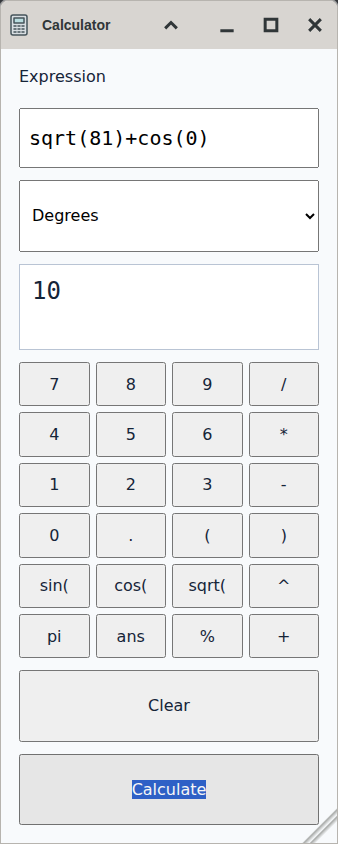
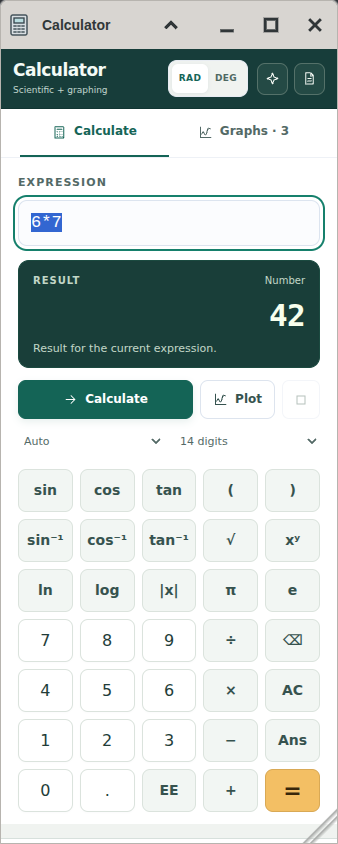
Verify the graphing Calculator in guest and account Files on production

diff --git a/reviews/live-apps/FIX-QUEUE.md b/reviews/live-apps/FIX-QUEUE.md
@@ -16,7 +16,7 @@ Linux X11 with Chromium, the remaining Craft work, and ACAD are the release prio
 |---|---|---|
 | Anon Files and WordCraft | Both previously stopped at “Opening…”. | Fixed on ksu.codes in `a1d99697be40`. The Files toolbar identifies guest storage as “This browser tab” in `fb68a0db0a3a`. A fresh guest edited a DOCX, saved, closed and reopened it through Files, then edited and saved again. Registration promoted identical bytes. Existing sign-in discarded another guest’s file. The guest made zero account-file gateway requests and the signed control contacted the gateway. [Screenshot](files/anon-wordcraft.png) · [Assembly](https://github.com/CC-David-CC/WebOS/commit/961b62af) |
 | Anon Craft editors | Nineteen editors rejected guest Files on the earlier deployment. | Fixed for all 20 on ksu.codes in `8d2b5476c7b1`. Each passed native editing, saving and reopening through Files in both roles. Compact layout, recording and independent engine findings remain listed under their own rows. [20 results and screenshots](anon-craft-files.md) |
-| Other Anon file workflows | From a fresh guest session, Calculator rejects launch. Image Editor, Python Notebook, G-code Viewer, Kiri:Moto, Mesh:Tool and several games open but reject a file picker. | Open. Of 58 other live launch entries, 57 opened. Retest each file operation with tab-local storage and a signed account, including reopening the saved revision in its native app. |
+| Other Anon file workflows | Calculator previously rejected guest launch. Separate native file checks are pending for other apps. | [Calculator passed in production](calculator/README.md) on `3bdb5bf26626` for guest, account promotion and fresh sign-in. Image Editor, Python Notebook, G-code Preview, Mesh:Tool, Digital Logic, Chess Study and Tabletop Bot Arena opened a guest file picker without private requests on `fdb8a0af8b45`. Their native save/reopen paths and the other pending workflows stay open. |
 | Anon Weather Maps | A new anonymous desktop should open over the United States. | Fixed on ksu.codes in `a1d99697be40`. Fresh desktop and phone-emulated sessions opened Weather Maps, the desktop rendered wind and US radar, the window stayed closed after dismissal, and a signed reload restored the account layout. [US globe](weather-maps/anon-us.png) · [Assembly](https://github.com/CC-David-CC/WebOS/commit/15f1308bd9f503adbcb6d26d0c4f153bbaa35f85) |
 | Desktop startup | A fresh visitor was sent to a full-page sign-in gate with a low-contrast Anon button. | Fixed on ksu.codes in release `4faf8fd04eff`. Fresh desktop and phone-emulated browser sessions started as Anon. Register, existing-account sign-in, automatic recovery of a remembered sign-in, and sign-out passed. A rejected password left the guest desktop available. Creating an account transferred an anonymous Terminal file. Signing in to that existing account from a second guest session kept the account file and discarded the second guest file. [Desktop source](https://github.com/CC-David-CC/desktop/commit/4d6456e6a3c5e4b1c2078a90dc2984f4a642f100) |
 | SoundCraft | Browser microphone recording and playback. | Hosted WebOS recorded a generated 440 Hz microphone, saved a native project and played the reopened take in Anon and a fresh signed-in browser. Physical microphone and listening check remains open. [Hosted review](soundcraft/README.md) |

diff --git a/reviews/live-apps/calculator/README.md b/reviews/live-apps/calculator/README.md
@@ -1,9 +1,14 @@
 # Calculator
 
-Entered 6 × 7 with the keypad and verified 42. Entered sqrt(81)+cos(0), selected degrees, pressed Calculate and verified 10. The window closed at every size. This covers the calculator currently served by the launcher.
+Choose **Apps → System Tools → Calculator**. The graphing calculator can save expressions, results and plotted functions together as a `.calc.json` session. Open the session from Files to continue editing.
 
-Passed in signed-in Chromium on ksu.codes at 390 × 844, 820 × 1180, 1920 × 1080 and 3840 × 2160 CSS pixels. The phone and tablet contexts emulated touch. Physical iPad, phone and Safari behavior remain unverified.
+| Live test | Result |
+|---|---|
+| Guest session | Evaluated `6*7`, plotted `x^2+37` and saved. Files reopened the graph. A second edit evaluated `12*12` and saved to the same file. There were zero private file requests. |
+| Create account | The new account retained the guest file. The signed-in user evaluated `13*13` and saved the updated session. |
+| Fresh sign-in | A new browser profile opened the account file through Files and restored its three graph traces. Its 1,618 bytes matched the saved SHA-256. |
+| Layout | Arithmetic, plotting and workspace fit passed at 390 × 844, 820 × 1180, 1920 × 1080 and 3840 × 2160 CSS pixels. The smaller two sizes used Chromium touch emulation. Physical touch and Safari remain open. |
 
[2 lines of base64/hex data omitted]
 
 [Phone](phone.png) · [Tablet](tablet.png) · [1080p](desktop.png) · [4K](4k.png)
